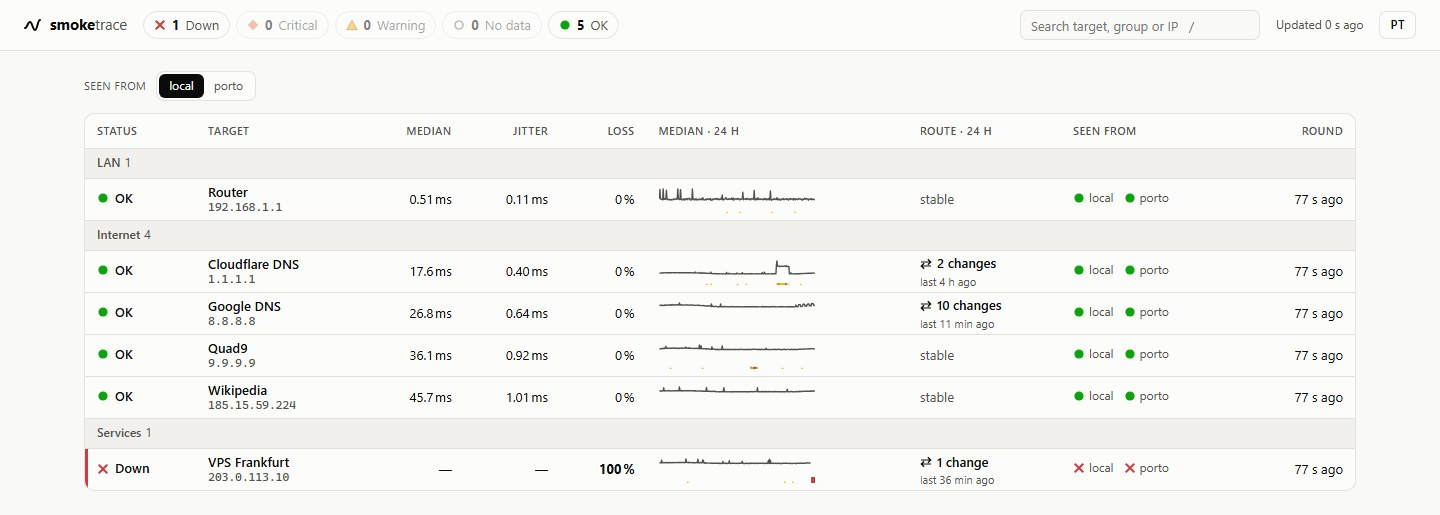
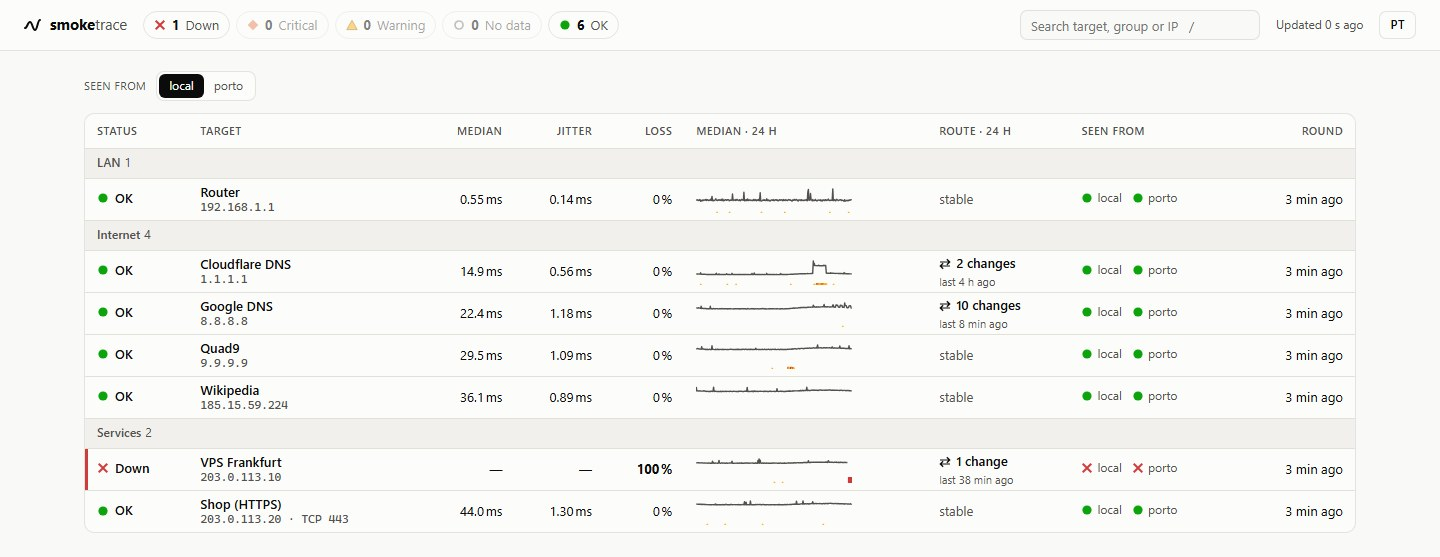
0.4.0: changelog, security notes, fresh screenshots

diff --git a/CHANGELOG.md b/CHANGELOG.md
@@ -2,6 +2,31 @@
 
 Versions follow [semantic versioning](https://semver.org).
 
+## [0.4.0] - 2026-10-19
+
+- **Alerts** on Discord, ntfy or any webhook, when a target's status or its route changes and holds for two
+  rounds, when it recovers, and when an agent stops or starts sending rounds. Each alert says what you would look
+  up first: the median and loss, the hop where real loss starts (with its AS), where the traceroute stops, the
+  AS path before and after, what the other sites see, and a link to the target (`PUBLIC_URL`).
+- **TCP and DNS probes**: `tcp://host:port` times a TCP connection (for hosts that drop ICMP) and traces over
+  that port; `dns://server/name` times a DNS server's answer and traces over TCP 53. SmokePing's `TCPPing`
+  (`port`) and `DNS` (`lookup`) targets are now probed too.
+- **AS and operator of every hop** (mtr `-z`, names from Team Cymru, looked up once and kept), in the traceroute
+  table, an "AS path changed" note and the alerts. `ASN=0` turns it off.
+- **Prometheus**: `/metrics` with median, loss, jitter, status, route changes and the last round, per target and
+  source (`METRICS_TOKEN`); `docs/grafana.json` is a dashboard to import.
+- **Sign-in**: `PASSWORD` protects the dashboard and its API with a signed, HttpOnly session cookie.
+- **Agents the server pulls from**: `LISTEN` on the agent and `name=token@http://agent:8100` in `AGENTS` (or
+  `url =` under a SmokePing slave), for sites the server can reach but that cannot reach the server.
+  Rounds are dropped from the agent only once the server has acknowledged them.
+- **SmokePing's history**: `--import-rrd` copies up to 30 days from SmokePing's RRD files (master and slaves).
+- **Per-target limits**: `loss_warn`, `loss_crit` and `latency_warn` in SmokePing's config, inherited down the
+  tree; `LOSS_WARN` and `LOSS_CRIT` for the defaults.
+- **SmokePing's config from another container**: `SMOKEPING_CONFIG` may be a folder (a `config` file, or the split
+  files of Debian and linuxserver/smokeping); absolute paths such as `@include /config/target/dns.conf` are found
+  in the mounted folder; an include that cannot be found is logged and skipped instead of stopping the start.
+- Imported hourly history draws as a continuous line; the image runs Python 3.14.
+
 ## [0.3.0] - 2026-10-19
 
 - **Reads SmokePing's config**: point `SMOKEPING_CONFIG` at it and smoketrace takes the targets from

diff --git a/SECURITY.md b/SECURITY.md
@@ -1,8 +1,11 @@
 # Security
 
-smoketrace has no login. Anyone who can reach its port sees your targets, their addresses, the routes to them
-and their history. The dashboard and its API only read; the only thing that writes is an agent's push, and
-that needs the agent's token.
+Without `PASSWORD`, anyone who can reach its port sees your targets, their addresses, the routes to them and
+their history. With it, the dashboard and its API need a sign-in: a session cookie signed with the password
+(HMAC-SHA256), HttpOnly, SameSite=Strict, Secure behind an HTTPS proxy that sets `X-Forwarded-Proto`, valid for 30
+days; changing the password ends every session, and a wrong password costs a second. `/metrics` then needs
+`METRICS_TOKEN`. The dashboard and its API only read; the only thing that writes is an agent's round, and that
+needs the agent's token.
 
 - The image listens on every interface (`BIND=0.0.0.0`); outside Docker it listens on `127.0.0.1` unless told
   otherwise. Keep it on a trusted network, or put it behind a reverse proxy with authentication.
